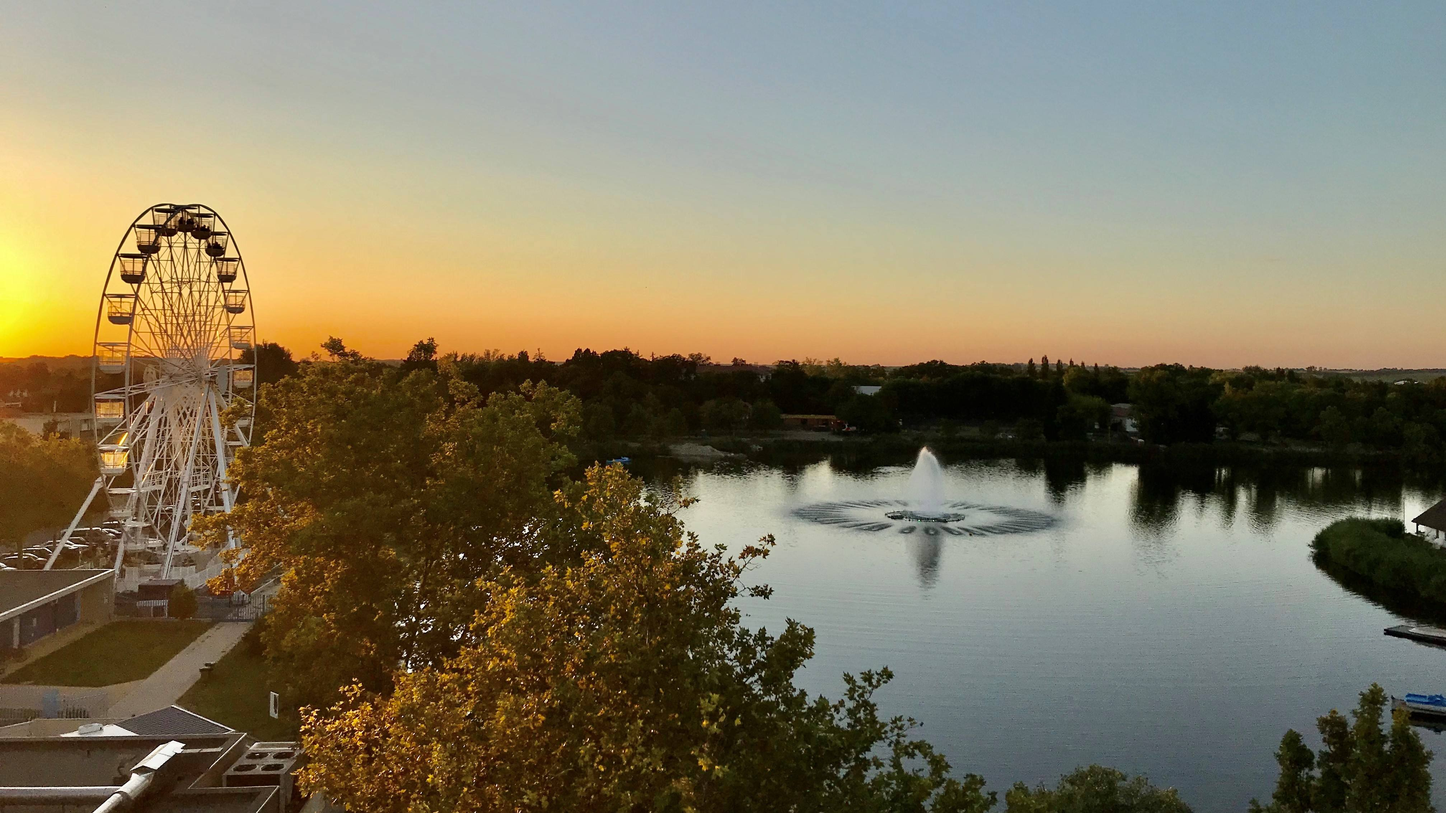
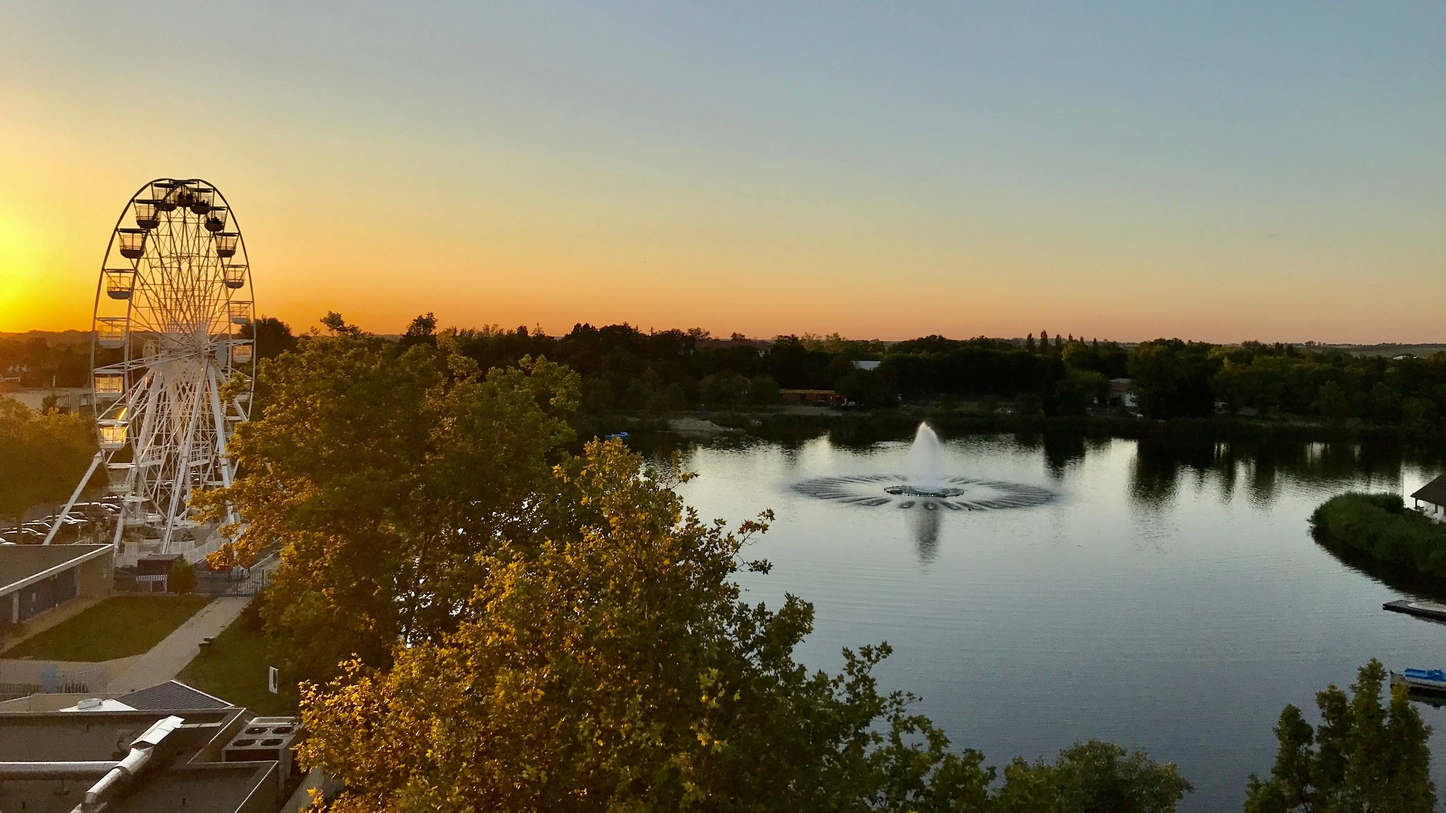
Version 0.20 - Header update and assets

Changed region(s): [[0.0, 0.2161, 1.0, 1.0], [0.9618, 0.9572, 1.0, 1.0], [0.5274, 0.9881, 0.5585, 1.0]]

diff --git a/index.html b/index.html
@@ -17,9 +17,14 @@
       <img id="bg1" src="assets/bg.jpg" alt="">
       <img id="bg2" src="assets/bg2.jpg" alt="">
       <img id="bg3" src="assets/bg3.jpg" alt="">
-      <img id="bg3cpy" src="assets/bg3copy.heic" alt="">
+      <img id="bg3cpy" src="assets/bg3copy.jpg" alt="">
       <div class="title">
         <h1>Üdvözöllek a Weboldalamon!</h1>
+      </div>
+      <div class="points">
+        <div class="point1"></div>
+        <div class="point2"></div>
+        <div class="point3"></div>
       </div>
     </header>
     <nav class="fixednav">
@@ -32,7 +37,7 @@
       <div class="introduction">
         <a id="introduction"></a>
         <h2>Bemutatkozás</h2>
-        <p>Üdvözöllek! Lestár Patriknak hívnak és 16 éves vagyok. Mindig is érdekelt az informatika, és amikor a karantén miatt sok szabadidőm lett, úgy döntöttem megtanulok weboldalakat készíteni, ami sikerült is. Ezen az oldalon főként a kedvenc fotóim és videóim találhatóak meg, de a közeljövőben folyamatosan frissítgetni fogom és sok újdonság is várható. Remélem elnyerte a tetszésedet az oldalam és szeretnék jó szórakozást kívánni a tartalmakhoz! :)</p>
+        <p>Üdvözöllek! Lestár Patriknak hívnak és 16 éves vagyok. Mindig is érdekelt a programozás, és amikor a karantén miatt sok szabadidőm lett, úgy döntöttem megtanulok weboldalakat készíteni, ami sikerült is. Ezen az oldalon főként a kedvenc fotóim és videóim találhatóak meg, de a közeljövőben folyamatosan frissítgetni fogom és sok újdonság is várható. Remélem elnyerte a tetszésedet az oldalam és szeretnék jó szórakozást kívánni a tartalmakhoz! :)</p>
         <img src="assets/22.png" alt="profile-photo">
       </div>
       <div class="photos">
@@ -40,27 +45,27 @@
         <h2>Fotók</h2>
         <p>Itt látható pár, a kedvenc fényképeim közül. Ha tetszenek, tekintsd meg az <a href="https://www.instagram.com/lestarpatrik/" target="_blank">Instagramom</a>, ahol több fotó is található és kövess be, ha szeretnél találkozni a legújabbakal is!</p>
         <div class="pictures">
-          <img src="https://imgur.com/24JXPBD.jpg" alt="">
-          <img src="https://imgur.com/yuEuKoy.jpg" alt="">
-          <img src="https://imgur.com/L8d0pQN.jpg" alt="">
-          <img src="https://imgur.com/p26UWD6.jpg" alt="">
-          <img src="https://imgur.com/KaX7N40.jpg" alt="">
-          <img src="https://imgur.com/1sTV9CM.jpg" alt="">
-          <img src="https://imgur.com/uXLUJy5.jpg" alt="">
-          <img src="https://imgur.com/v1YUgEv.jpg" alt="">
-          <img src="https://imgur.com/YOj1zeD.jpg" alt="">
-          <img src="https://imgur.com/bbfR9a2.jpg" alt="">
-          <img src="https://imgur.com/ZuVWmsH.jpg" alt="">
-          <img src="https://imgur.com/lnNPwP8.jpg" alt="">
-          <img src="https://imgur.com/2tm0GJy.jpg" alt="">
-          <img src="https://imgur.com/4QPj2ew.jpg" alt="">
-          <img src="https://imgur.com/HnCEOKx.jpg" alt="">
-          <img src="https://imgur.com/ExjIIkL.jpg" alt="">
-          <img src="https://imgur.com/1fqLjo5.jpg" alt="">
-          <img src="https://imgur.com/XFeeZzz.jpg" alt="">
-          <img src="https://imgur.com/5JkhhSU.jpg" alt="">
-          <img src="https://imgur.com/JbMcB75.jpg" alt="">
-          <img class="last" src="https://imgur.com/uuXOGA4.jpg" alt="">
+          <img src="assets/1.jpg" alt="">
+          <img src="assets/2.jpg" alt="">
+          <img src="assets/3.jpg" alt="">
+          <img src="assets/4.jpg" alt="">
+          <img src="assets/5.jpg" alt="">
+          <img src="assets/6.jpg" alt="">
+          <img src="assets/7.jpg" alt="">
+          <img src="assets/8.jpg" alt="">
+          <img src="assets/9.jpg" alt="">
+          <img src="assets/10.jpg" alt="">
+          <img src="assets/11.jpg" alt="">
+          <img src="assets/12.jpg" alt="">
+          <img src="assets/13.jpg" alt="">
+          <img src="assets/14.jpg" alt="">
+          <img src="assets/15.jpg" alt="">
+          <img src="assets/16.jpg" alt="">
+          <img src="assets/17.jpg" alt="">
+          <img src="assets/18.jpg" alt="">
+          <img src="assets/19.jpg" alt="">
+          <img src="assets/20.jpg" alt="">
+          <img class="last" src="assets/21.jpg" alt="">
         </div>
       </div>
       <div class="video">

diff --git a/css/main.css b/css/main.css
@@ -117,12 +117,14 @@ table {
 		display: none;
 		border: 1px solid black;
 		z-index: 5;
+		opacity: 0.9;
 	}
 /*==========HEADER==========*/
   header {
     width: 100%;
-    height: 30vh;
-    display: table;
+		height: 30vh;
+		display: table;
+		position: relative;
   }
   header h1 {
     color: white;
@@ -137,12 +139,12 @@ table {
 		padding: 2rem 1rem;
   }
   .title {
-    display: table-cell;
+		display: table-cell;
     vertical-align: middle;
   }
 	#bg1, #bg2, #bg3, #bg3cpy {
 		width: 100%;
-		max-height: 30vh;
+		height: 30vh;
 		position: fixed;
 		top: 0;
 		right: 0;
@@ -150,6 +152,29 @@ table {
 	}
 	#bg3cpy {
 		z-index: -2;
+	}
+	.points {
+		position: absolute;
+		height: 1.8rem;
+		padding: 0.2rem;
+		bottom: 1rem;
+		left: 50%;
+		margin-left: -2.1rem;
+		background-color: rgba(250,250,250,.7);
+		border-radius: 50px;
+	}
+	.point1, .point2, .point3 {
+		background-color: rgb(40,40,40);
+		width: 1rem;
+		height: 1rem;
+		border-radius: 50%;
+		display: inline-block;
+		margin: 0.2rem;
+	}
+	.currentpoint {
+		background-color: white;
+		border: 2px solid rgb(40,40,40);
+		transition: 0.3s ease-in-out;
 	}
 /*==========NAV==========*/
   nav {
@@ -244,7 +269,7 @@ table {
 /*==========MEDIA QUERY==========*/
 	@media screen and (min-width: 650px) {
 		#bg1, #bg2, #bg3, #bg3cpy {
-			max-height: none;
+			min-height: none;
 			height: 56vw;
 			margin-top: -10vw;
 		}

diff --git a/app.js b/app.js
@@ -62,8 +62,20 @@ $(document).ready(function looper() {
     $('#bg1').css('right', '-100%');
     $('#bg2').css('right', '-100%');
     $('#bg3').css('right', '-100%');
-    $('#bg1').animate({right: '0'}, 'slow');
-    $('#bg2').delay(4000).animate({right: '0'}, 'slow');
-    $('#bg3').delay(8000).animate({right: '0'}, 'slow');
+    $('#bg1').animate({right: '0'}, 600);
+    setTimeout(function(){
+      $('.point1').addClass('currentpoint');
+      $('.point3').removeClass('currentpoint');
+    }, 300);
+    $('#bg2').delay(4000).animate({right: '0'}, 600);
+    setTimeout(function(){
+      $('.point2').addClass('currentpoint');
+      $('.point1').removeClass('currentpoint');
+    }, 4300);
+    $('#bg3').delay(8000).animate({right: '0'}, 600);
+    setTimeout(function(){
+      $('.point3').addClass('currentpoint');
+      $('.point2').removeClass('currentpoint');
+    }, 8300);
     setTimeout(looper,12000)
 });
